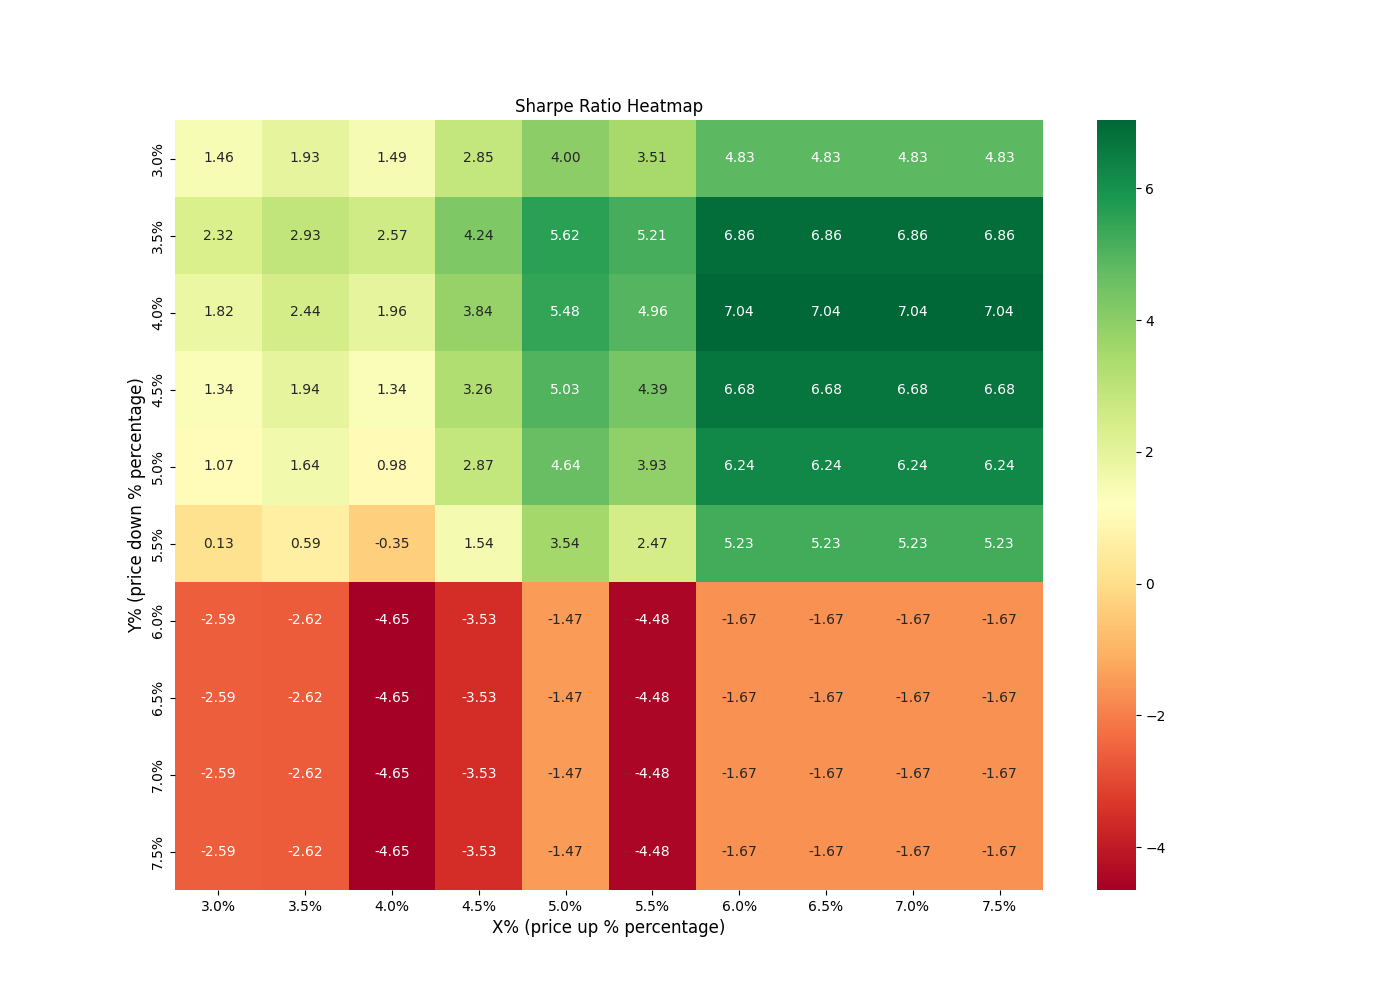
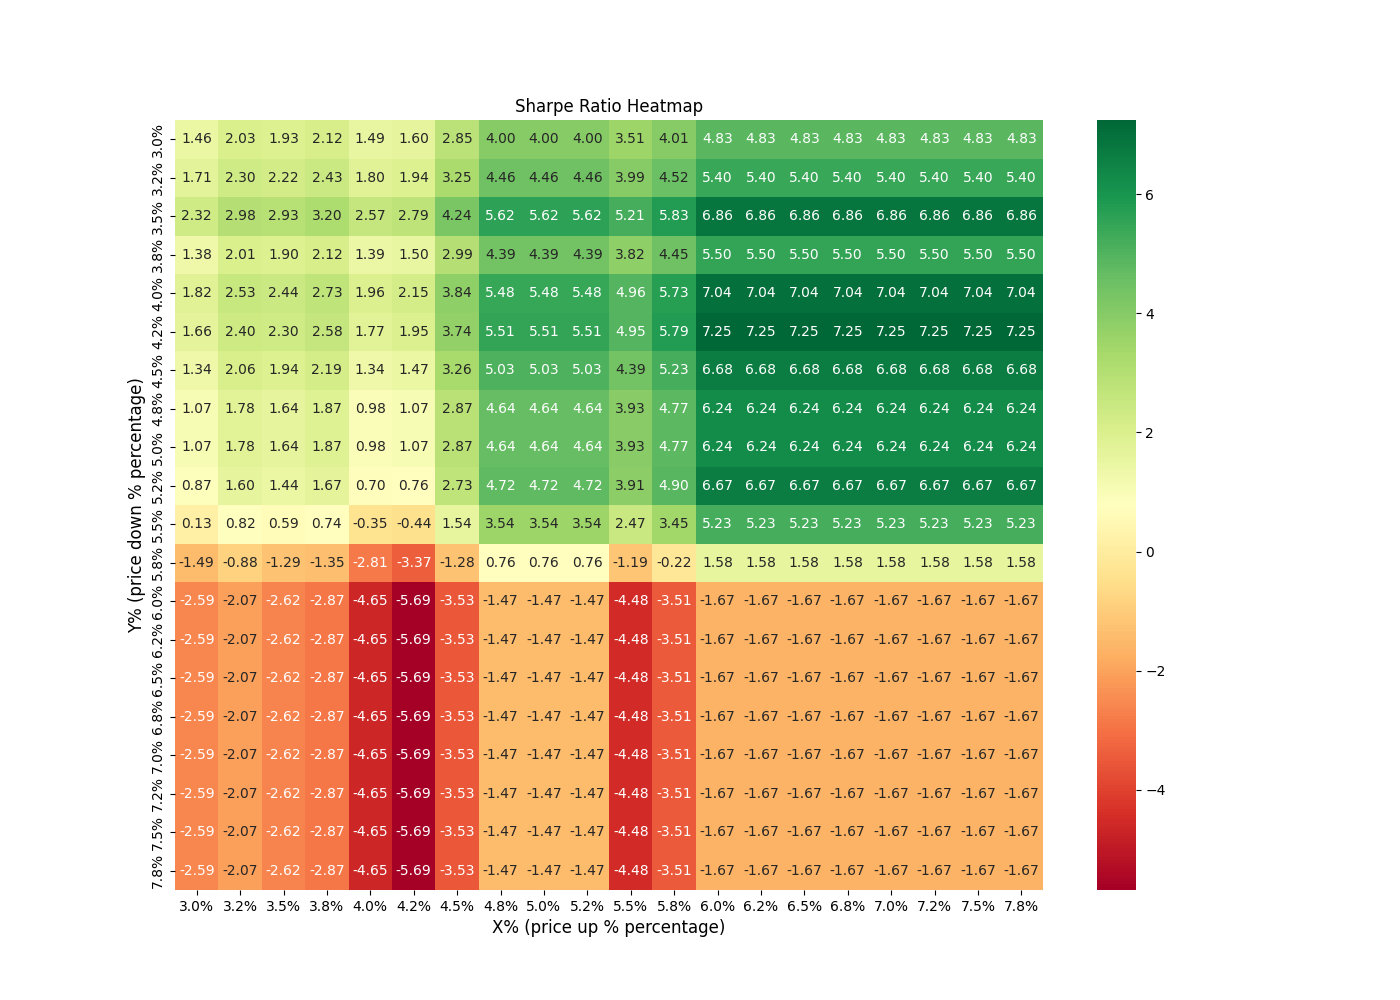
updated

diff --git a/service.py b/service.py
@@ -380,4 +380,4 @@ def forward_testing(x: float, y: float):
         print(f"Sharpe Ratio: {metrics['Sharpe_Ratio']:.2f}")
         print(f"Win Rate: {metrics['Win_Rate']:.2%}")
 
-optimize_strategy(3, 8, 0.5)
+optimize_strategy(3, 8, 0.25)
